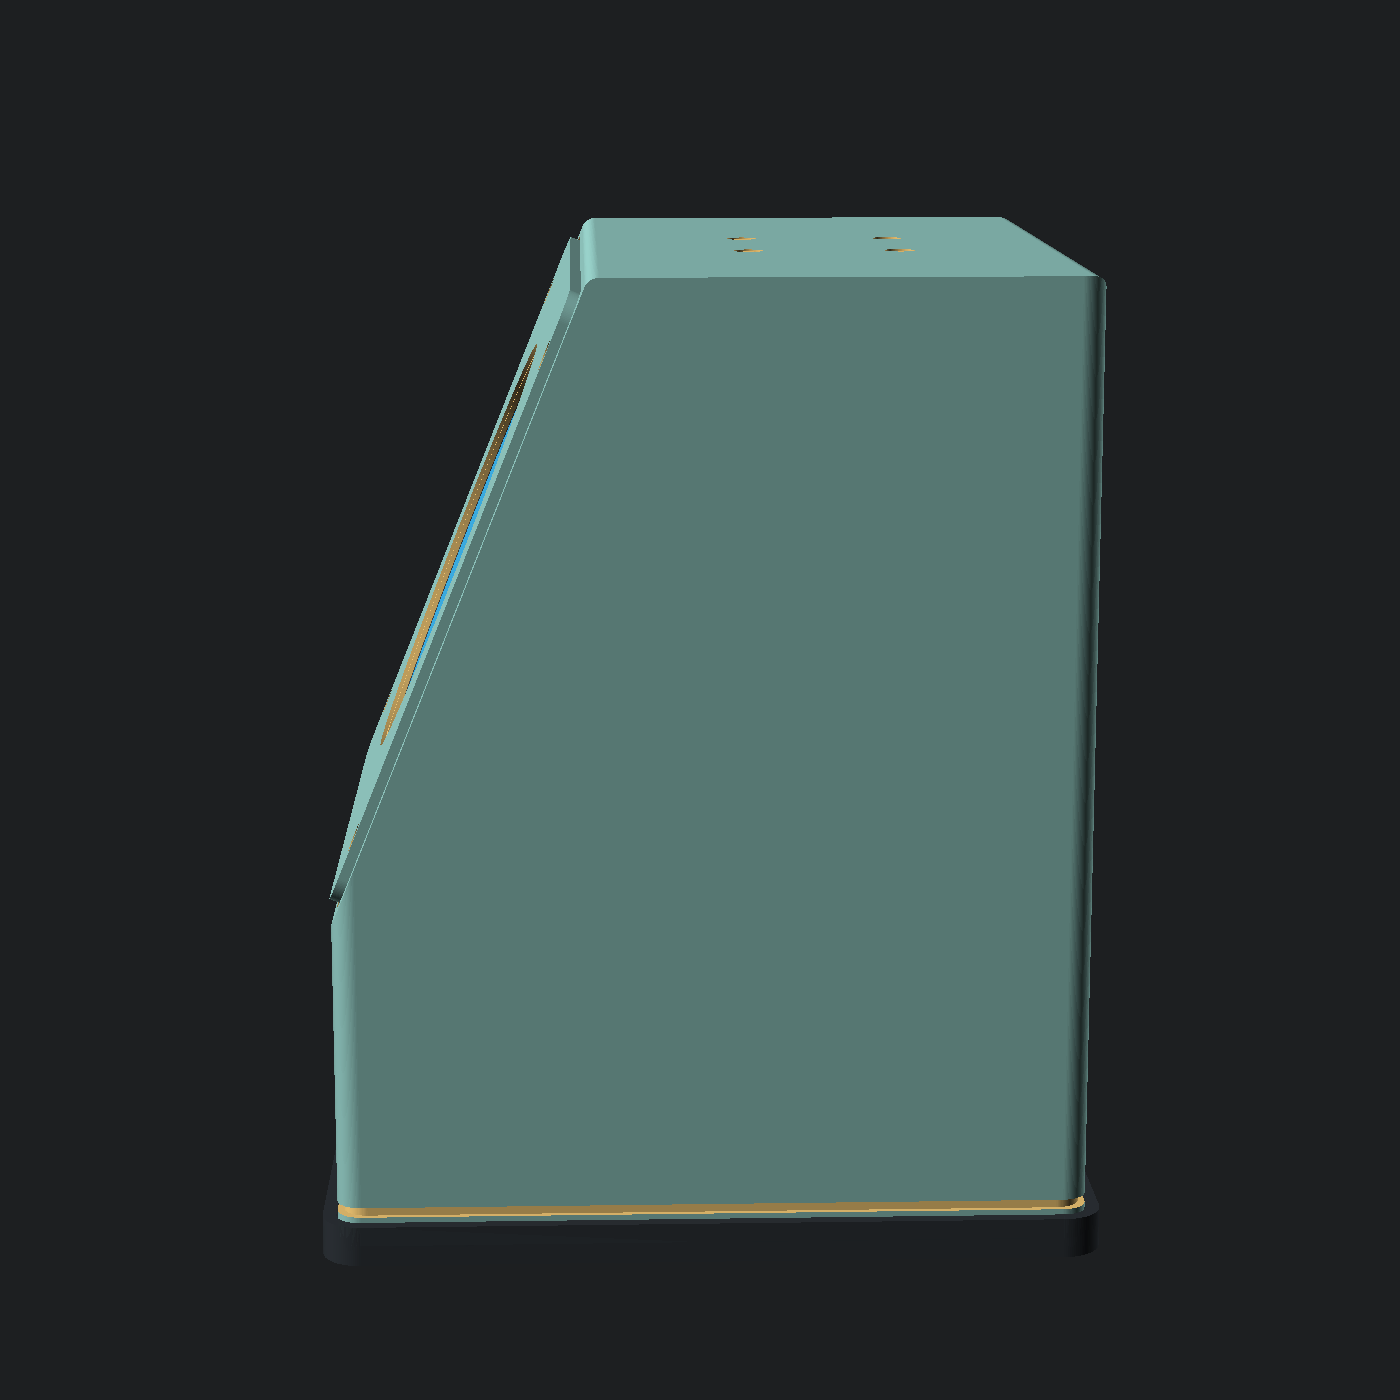
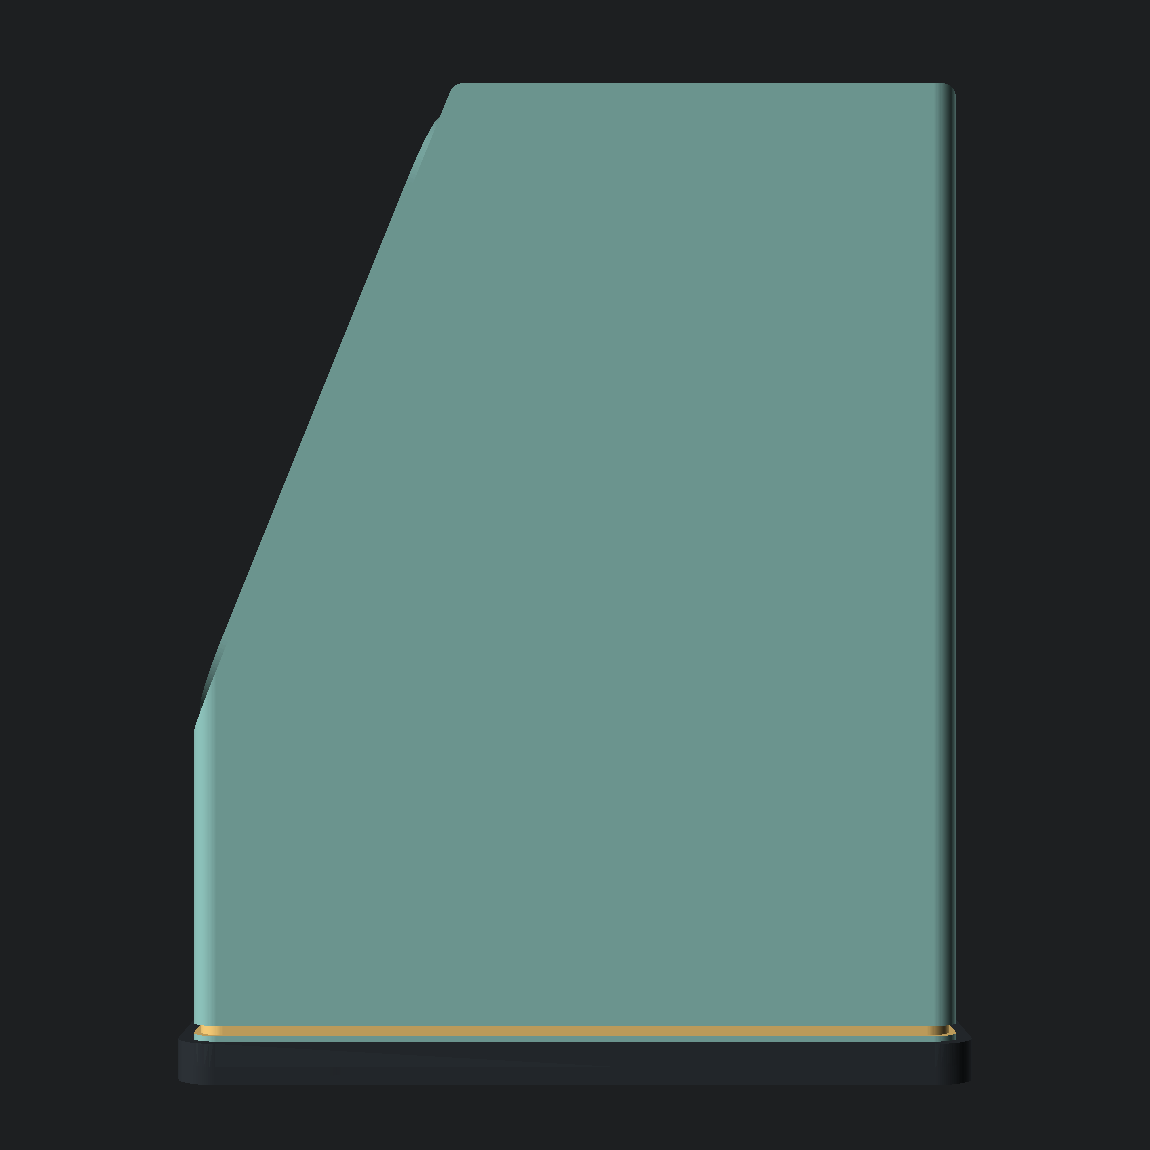
feat(cad): a render script, and the one number in this model that is about looks
Two things the enclosure did not have: a way to reproduce its own pictures, and
a corner radius anybody chose.

cad/render.py. The fifteen images in renders/revD/ had no source. They were made
by hand at a prompt, in a session whose scratch directory is gone, so changing a
camera angle meant guessing the flags again — and the generator for
docs/build.html was lost exactly that way, which is why that file is now
hand-edited and drifts. The views live in the repo now.

Two rules are baked into it because both have already cost an afternoon. It
always passes --render: the CSG tree exceeds OpenSCAD's preview normaliser,
which aborts and writes a BLANK PNG with no error and exit 0, so every output is
size-checked afterwards and anything under 8 KB is reported as blank rather than
as a render. And it gives camera distance explicitly instead of --viewall, which
rescales when the model changes and makes two revisions impossible to compare —
which is the whole reason you would render anything twice.

fp_r. The faceplate and the rebate it drops into shared a hard-coded 6 mm corner
radius, and the result was three outlines arguing: a rectangular plate carrying a
circle, sitting inside the shell's own rectangle. It is now a parameter at 16,
where the plate reads as one soft shape around the eye and the four exposed
screws land on the curve instead of in square corners. Nothing else moves — the
bounding box is identical, so no derived dimension changes.
[…]

diff --git a/docs/build.html b/docs/build.html
@@ -129,12 +129,16 @@ footer{border-top:1px solid var(--rule);padding-top:22px;color:var(--ink-3);font
   forward-firing driver; four microphones sit on the top surface as far from that driver as the box
   allows. Everything vents out the back, because a vent on the front or top is a leak path from the
   speaker straight into the microphones.</p>
+  <p><b>One number in the model is purely about how it looks</b> — <code>fp_r</code>, the corner radius shared by
+  the faceplate and its rebate. At 6 mm the face was a hard-cornered rectangle carrying a circle inside the shell's
+  own rectangle; at 16 it reads as one soft shape around the eye, and the four exposed screws sit on the curve. 17
+  leaves under three perimeters of material outboard of a screw counterbore, and the model refuses it.</p>
   <p>Almost nothing about the size was chosen. The display carrier sets the face length, the driver box sets
   the skirt, the mic array sets the depth, and the fastener flange sets the width — the model derives
   the rest and refuses to render if a measurement makes it unbuildable.</p>
   <div class="note"><strong>Three gates run over this model, and they all pass.</strong>
   <code>cad/check.py</code> proves every part is a single connected solid; <code>cad/fit.py</code>
-  proves no two parts occupy the same space; and sixteen asserts inside the model itself check the
+  proves no two parts occupy the same space; and seventeen asserts inside the model itself check the
   things neither can see — that the display posts compress their gasket by 20 % rather than floating
   above it, that the driver clamp's webs clear the driver box, that the microphone array lands on the top face
   instead of overhanging its front edge, and that every plate still fits the bed. Between them they

diff --git a/cad/render.py b/cad/render.py
@@ -1,0 +1,92 @@
+#!/usr/bin/env python3
+"""Renders the You2 enclosure.
+
+The images in renders/revD/ had no source. They were made by hand at a shell
+prompt, in a session whose scratch directory no longer exists, which means the
+only way to change a camera angle was to guess the flags again. The generator
+for docs/build.html was lost the same way. So: the views live here.
+
+    python3 cad/render.py                 # everything, into cad/renders/revD/
+    python3 cad/render.py hero section    # just those
+    python3 cad/render.py --list
+
+Two rules are baked in because both have already cost an afternoon:
+
+  --render, never preview. The CSG tree exceeds OpenSCAD's preview normaliser,
+  which aborts and writes a BLANK PNG with no error and exit 0. Every render
+  here is checked for a plausible file size afterwards for that reason.
+
+  Deterministic framing. --viewall rescales when the model changes, so two
+  renders of two revisions cannot be compared. Distance is given explicitly.
+"""
+import argparse, os, subprocess, sys
+
+ROOT = os.path.dirname(os.path.dirname(os.path.abspath(__file__)))
+SCAD = os.path.join(ROOT, "cad", "you2-revD.scad")
+OUT = os.path.join(ROOT, "cad", "renders", "revD")
+SCHEME = "Tomorrow Night"
+
+#  name        mode        tz    rot x   z    dist  size        extra -D
+#  tz is the camera target height: half the object, so it sits centred without
+#  --viewall, which would rescale between revisions and make two renders of two
+#  designs impossible to compare.
+VIEWS = [
+    ("d-hero",     "assembly",  96,  62,  28,  700, (1300, 1150), []),
+    ("d-front",    "assembly",  96,  90,   0,  620, (1000, 1200), []),
+    ("d-profile",  "assembly",  96,  90,  90,  640, (1150, 1150), []),
+    ("d-rear",     "assembly",  96,  72, 200,  700, (1200, 1150), []),
+    ("d-top",      "assembly",  96,  18,   8,  640, (1150, 1100), []),
+    ("d-section",  "section",   96,  74,  38,  720, (1300, 1150), []),
+    ("d-exploded", "exploded",  96,  70,  30, 1250, (1150, 1500), []),
+    ("d-shell",    "shell",     96,  64,  32,  700, (1200, 1150), []),
+    ("d-base",     "base",       5,  58,  25,  520, (1250,  900), []),
+]
+for n in range(1, 7):
+    VIEWS.append((f"d-plate{n}", "printplate", 0, 44, 0, 640, (1200, 900),
+                  [f"PLATE={n}"]))
+
+
+def render(name, mode, tz, rx, rz, dist, size, extra):
+    path = os.path.join(OUT, name + ".png")
+    cmd = ["openscad", "-o", path, "--render",
+           f"--imgsize={size[0]},{size[1]}",
+           f"--camera=0,0,{tz},{rx},0,{rz},{dist}",
+           f"--colorscheme={SCHEME}", "-D", f'MODE="{mode}"']
+    for d in extra:
+        cmd += ["-D", d]
+    cmd.append(SCAD)
+    r = subprocess.run(cmd, capture_output=True, text=True)
+    err = [l for l in (r.stderr or "").splitlines() if "ERROR" in l]
+    kb = os.path.getsize(path) // 1024 if os.path.exists(path) else 0
+    # A blank 1400x1150 PNG of flat background compresses to a few KB. Anything
+    # under 8 KB is the preview-normaliser failure, not a render.
+    ok = kb >= 8 and not err
+    print(f"  {'ok  ' if ok else 'FAIL'} {name:<12} {kb:>4} KB"
+          + ("   " + err[0][:90] if err else "")
+          + ("   BLANK — did this run with --render?" if kb and kb < 8 else ""))
+    return ok
+
+
+def main():
+    ap = argparse.ArgumentParser()
+    ap.add_argument("views", nargs="*", help="names to render (default: all)")
+    ap.add_argument("--list", action="store_true")
+    a = ap.parse_args()
+    if a.list:
+        for v in VIEWS:
+            print(" ", v[0])
+        return 0
+    os.makedirs(OUT, exist_ok=True)
+    want = [v for v in VIEWS if not a.views or v[0] in a.views
+            or v[0].replace("d-", "") in a.views]
+    if not want:
+        print("no view matched; --list to see them")
+        return 2
+    bad = sum(not render(*v) for v in want)
+    print()
+    print(f"{len(want) - bad}/{len(want)} rendered into cad/renders/revD/")
+    return 1 if bad else 0
+
+
+if __name__ == "__main__":
+    sys.exit(main())

diff --git a/cad/fit.py b/cad/fit.py
@@ -19,9 +19,15 @@ Usage:
 
 A result under 0.01 cm3 is clear. Between 0.01 and 0.05 is a coplanar contact —
 two faces touching, the way a gasket seat or a screw boss is meant to. Above
-that is real interference. In practice no pair in this suite has ever landed in
-the contact band: the parts here meet across gaskets, which are separate solids,
-so every honest answer is either 0.000 or a defect.
+that is real interference.
+
+Exactly one pair lands in the contact band, and it is worth knowing why before
+you assume a number in it is a problem. The faceplate sits in a rebate whose
+floor is coplanar with the plate's back, and once both outlines took a 16 mm
+corner radius the tessellation of those two arcs began to overlap: 0.015 cm3,
+which is 15 mm3 spread over a 4310 mm2 seat, or 0.0035 mm thick. That is the
+band doing its job. Everything else here meets across a gasket — a separate
+solid — so its honest answer is 0.000.
 
 Every pair in this suite currently reads 0.000, which is the answer a completely
 broken harness also gives. So it runs two controls first: an empty model, which

diff --git a/README.md b/README.md
@@ -169,7 +169,9 @@ A wedge. Angled face so the screen looks at you rather than the ceiling, microph
 
 The front is one big round display — the "eye" — sitting 2.2 mm behind a chamfered bezel, so the rim is always the first thing to touch anything.
 
-**Almost nothing about the size was chosen.** The display carrier sets the face length, the driver box sets the skirt, and the mic array sets the depth — the height is derived, not picked. Width and depth are the exception: they are hand-typed constants that the asserts *guard* rather than derive, and they are the two numbers to raise when one fires. Change a part dimension at the top of the model and the enclosure re-sizes itself; if a measurement makes it unbuildable, 16 asserts fail with the reason rather than rendering a shell you cannot assemble.
+Everything else on the object is structural, and only one number in the model is purely about how it looks: `fp_r`, the corner radius of the faceplate and the rebate it drops into. At 6 mm the face was a hard-cornered rectangle carrying a circle, inside the shell's own rectangle — three outlines arguing. At 16 the plate reads as one soft shape around the eye and the four exposed screws land on the curve rather than in square corners. It cannot go higher: at 17 the corner arc leaves under three perimeters of material outboard of a screw counterbore, and an assert says so with the shortfall in millimetres.
+
+**Almost nothing about the size was chosen.** The display carrier sets the face length, the driver box sets the skirt, and the mic array sets the depth — the height is derived, not picked. Width and depth are the exception: they are hand-typed constants that the asserts *guard* rather than derive, and they are the two numbers to raise when one fires. Change a part dimension at the top of the model and the enclosure re-sizes itself; if a measurement makes it unbuildable, 17 asserts fail with the reason rather than rendering a shell you cannot assemble.
 
 | | |
 |---|---|
@@ -210,7 +212,7 @@ python3 cad/check.py cad/you2-revD.scad   # every part is ONE connected solid
 python3 cad/fit.py   cad/you2-revD.scad   # no two parts share space
 ```
 
-Between them and 16 in-model asserts they caught **23 defects renders did not show** — a microphone array overhanging the top face by 2 mm, a driver that never touched its own seal, eight insert holes bored at the insert's own diameter, and two Ø10 × 24 mm horizontal cantilevers that would have needed support towers built from the bare bed inside a sealed cavity.
+Between them and 17 in-model asserts they caught **23 defects renders did not show** — a microphone array overhanging the top face by 2 mm, a driver that never touched its own seal, eight insert holes bored at the insert's own diameter, and two Ø10 × 24 mm horizontal cantilevers that would have needed support towers built from the bare bed inside a sealed cavity.
 
 Model: [cad/you2-revD.scad](cad/you2-revD.scad) · Renders: [cad/renders/revD/](cad/renders/revD/) · **Build document: [docs/build.html](docs/build.html)**
 
@@ -240,7 +242,7 @@ The LLM runs on an API (Groq's free tier covers ~480× this workload), which del
 with it the expensive half of the hardware. A Pi 5 **2 GB** at $65 is the same quad Cortex-A76 silicon as the $175 8 GB
 board; the RAM was only ever there to hold a model that now lives elsewhere.
 
-The enclosure is gated rather than merely rendered — every part exports as a single connected solid, no two parts occupy the same space, and 16 asserts check the things neither gate can see. **That still is not a claim that it fits.** Every dimension came from a datasheet, and vendor listings for these parts are routinely wrong.
+The enclosure is gated rather than merely rendered — every part exports as a single connected solid, no two parts occupy the same space, and 17 asserts check the things neither gate can see. **That still is not a claim that it fits.** Every dimension came from a datasheet, and vendor listings for these parts are routinely wrong.
 
 **One number can invalidate the design.** Seeed describes the mic array as *"44 mm spacing arranged in a circular layout"*. If that is the pitch-circle diameter, this works. If it means the distance between adjacent capsules — which is what "spacing" means on the linear-4 sibling — the pitch circle is 62.2 mm, and at that value the model refuses to render. Not because the ports fall off the board: the membrane's outer edge still sits 2.3 mm inside a Ø73 PCB. Because 2.3 mm of rim is not a bond line for an adhesive-backed Ø6 vent, and the model asserts a 4 mm land. Settle it with calipers before ordering: [hardware/measure-first.md](hardware/measure-first.md).
 

diff --git a/handoff_hardware.md b/handoff_hardware.md
@@ -110,7 +110,7 @@ python3 cad/fit.py   cad/you2-revD.scad     # no two parts share space
 openscad -o /dev/null --export-format=binstl -D 'MODE="shell"' cad/you2-revD.scad
 ```
 
-All three gates pass on both variants (`-D LED_BAR=true` as well), and 16 asserts
+All three gates pass on both variants (`-D LED_BAR=true` as well), and 17 asserts
 inside the model pass.
 
 Render a PNG with `--render`. **Never preview** — the CSG tree exceeds
